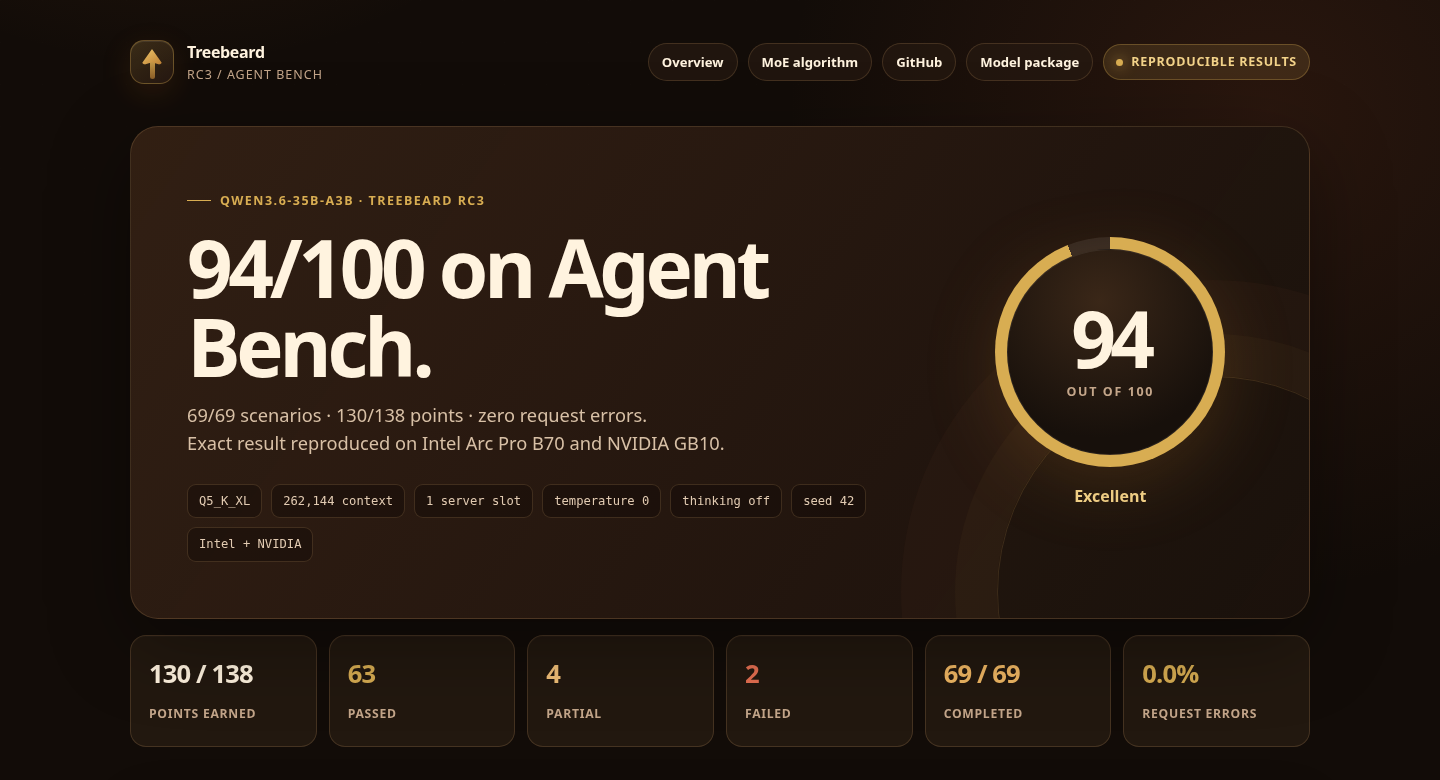
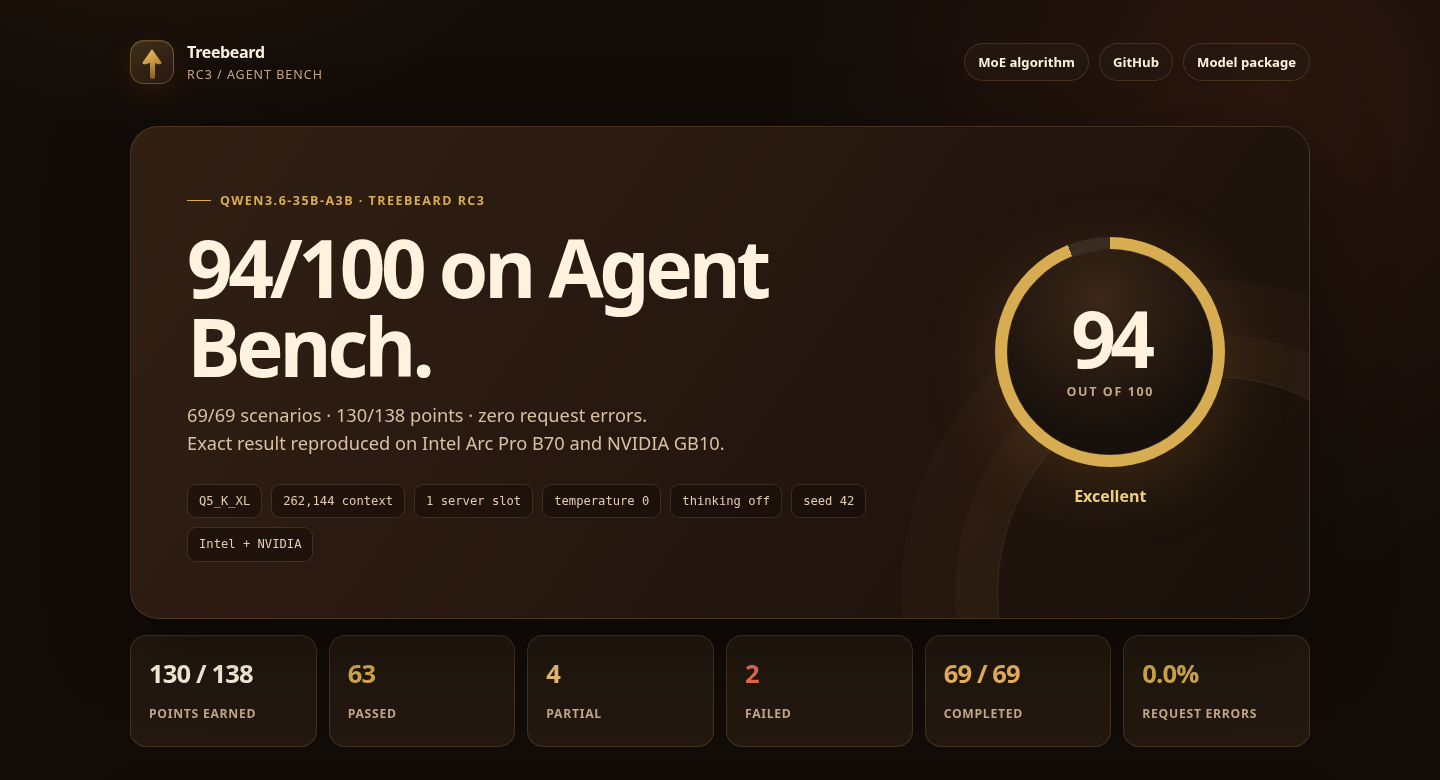
docs: remove decorative report labels

Changed region(s): [[0.625, 0.0308, 0.9062, 0.1231], [0.5312, 0.0615, 0.5938, 0.0923], [0.4688, 0.0615, 0.5, 0.0923]]

diff --git a/docs/index.html b/docs/index.html
@@ -147,31 +147,6 @@
     .brand-name { font-weight: 760; letter-spacing: -0.02em; }
     .brand-sub { color: var(--muted); font-size: 0.78rem; letter-spacing: 0.08em; text-transform: uppercase; }
 
-    .verified {
-      display: inline-flex;
-      align-items: center;
-      gap: 8px;
-      min-height: 34px;
-      padding: 7px 12px;
-      border: 1px solid rgba(216, 173, 82, 0.3);
-      border-radius: 999px;
-      background: var(--green-soft);
-      color: #f3d38a;
-      font-size: 0.78rem;
-      font-weight: 700;
-      letter-spacing: 0.06em;
-      text-transform: uppercase;
-    }
-
-    .verified::before {
-      width: 7px;
-      height: 7px;
-      border-radius: 50%;
-      background: var(--green);
-      box-shadow: 0 0 14px var(--green);
-      content: "";
-    }
-
     .hero {
       position: relative;
       display: grid;
@@ -362,21 +337,6 @@
       white-space: pre;
     }
 
-    .callout {
-      display: grid;
-      grid-template-columns: auto 1fr;
-      gap: 14px;
-      margin-top: 16px;
-      padding: 17px 18px;
-      border: 1px solid rgba(240,183,99,0.19);
-      border-radius: 14px;
-      background: rgba(240,183,99,0.065);
-      color: #dbc3a8;
-      font-size: 0.84rem;
-    }
-
-    .callout-mark { color: var(--cyan); font-family: ui-monospace, SFMono-Regular, Menlo, monospace; font-weight: 800; }
-
     .feature {
       display: grid;
       grid-template-columns: minmax(0, 1.08fr) minmax(320px, 0.92fr);
@@ -495,7 +455,6 @@
       .topbar { align-items: flex-start; flex-direction: column; }
       .top-actions { justify-content: flex-start; }
       .brand-sub { display: none; }
-      .verified { padding: 6px 9px; font-size: 0.67rem; }
       .hero { padding: 26px 20px; border-radius: 21px; }
       .metric-grid { grid-template-columns: repeat(2, minmax(0,1fr)); }
       .categories { grid-template-columns: 1fr; }
@@ -527,11 +486,9 @@
         </div>
       </div>
       <div class="top-actions">
-        <a class="top-link" href="#overview">Overview</a>
         <a class="top-link" href="moe-routing.html">MoE algorithm</a>
         <a class="top-link" href="https://github.com/newjordan/treebeard">GitHub</a>
         <a class="top-link" href="https://huggingface.co/Frosty40/Treebeard-Qwen3.6-35B-A3B-GGUF">Model package</a>
-        <div class="verified">Reproducible results</div>
       </div>
     </header>
 
@@ -578,7 +535,6 @@
         <img class="guide-image" src="assets/treebeard-adventurers-guide.png" width="1448" height="1086" loading="lazy" alt="Treebeard Agent Bench summary showing a 94 out of 100 score and validated Intel and NVIDIA hardware">
       </div>
       <div class="feature-copy">
-        <p class="eyebrow">Treebeard RC3</p>
         <h2>Qwen3.6, ready to run.</h2>
         <p>Download the Linux model package or inspect the source.</p>
         <div class="button-row">
@@ -643,10 +599,6 @@
           <div class="method-item"><strong>NVIDIA GB10</strong><span>94/100, 130/138, 63 pass, 4 partial, 2 fail. CUDA 13.3, engine b9624-0424f677f-cuda12.</span></div>
           <div class="method-item"><strong>Exact agreement</strong><span>Same outcome on TC-01 through TC-69, with zero request errors in both runs.</span></div>
         </div>
-        <div class="callout">
-          <span class="callout-mark">2x</span>
-          <span>The score is now independently reproduced on both packaged backends, not inferred from a native throughput microbenchmark.</span>
-        </div>
       </div>
     </section>
 
@@ -669,10 +621,6 @@
 
 tool-eval-bench --backend llamacpp --no-think --seed 42 \
   --reference-date 2026-03-20 --parallel 1 --timeout 180</pre>
-        <div class="callout">
-          <span class="callout-mark">NOTE</span>
-          <span>Separate 12-slot measurements characterize serving throughput under concurrency; they are not part of this quality score.</span>
-        </div>
       </div>
     </section>
 